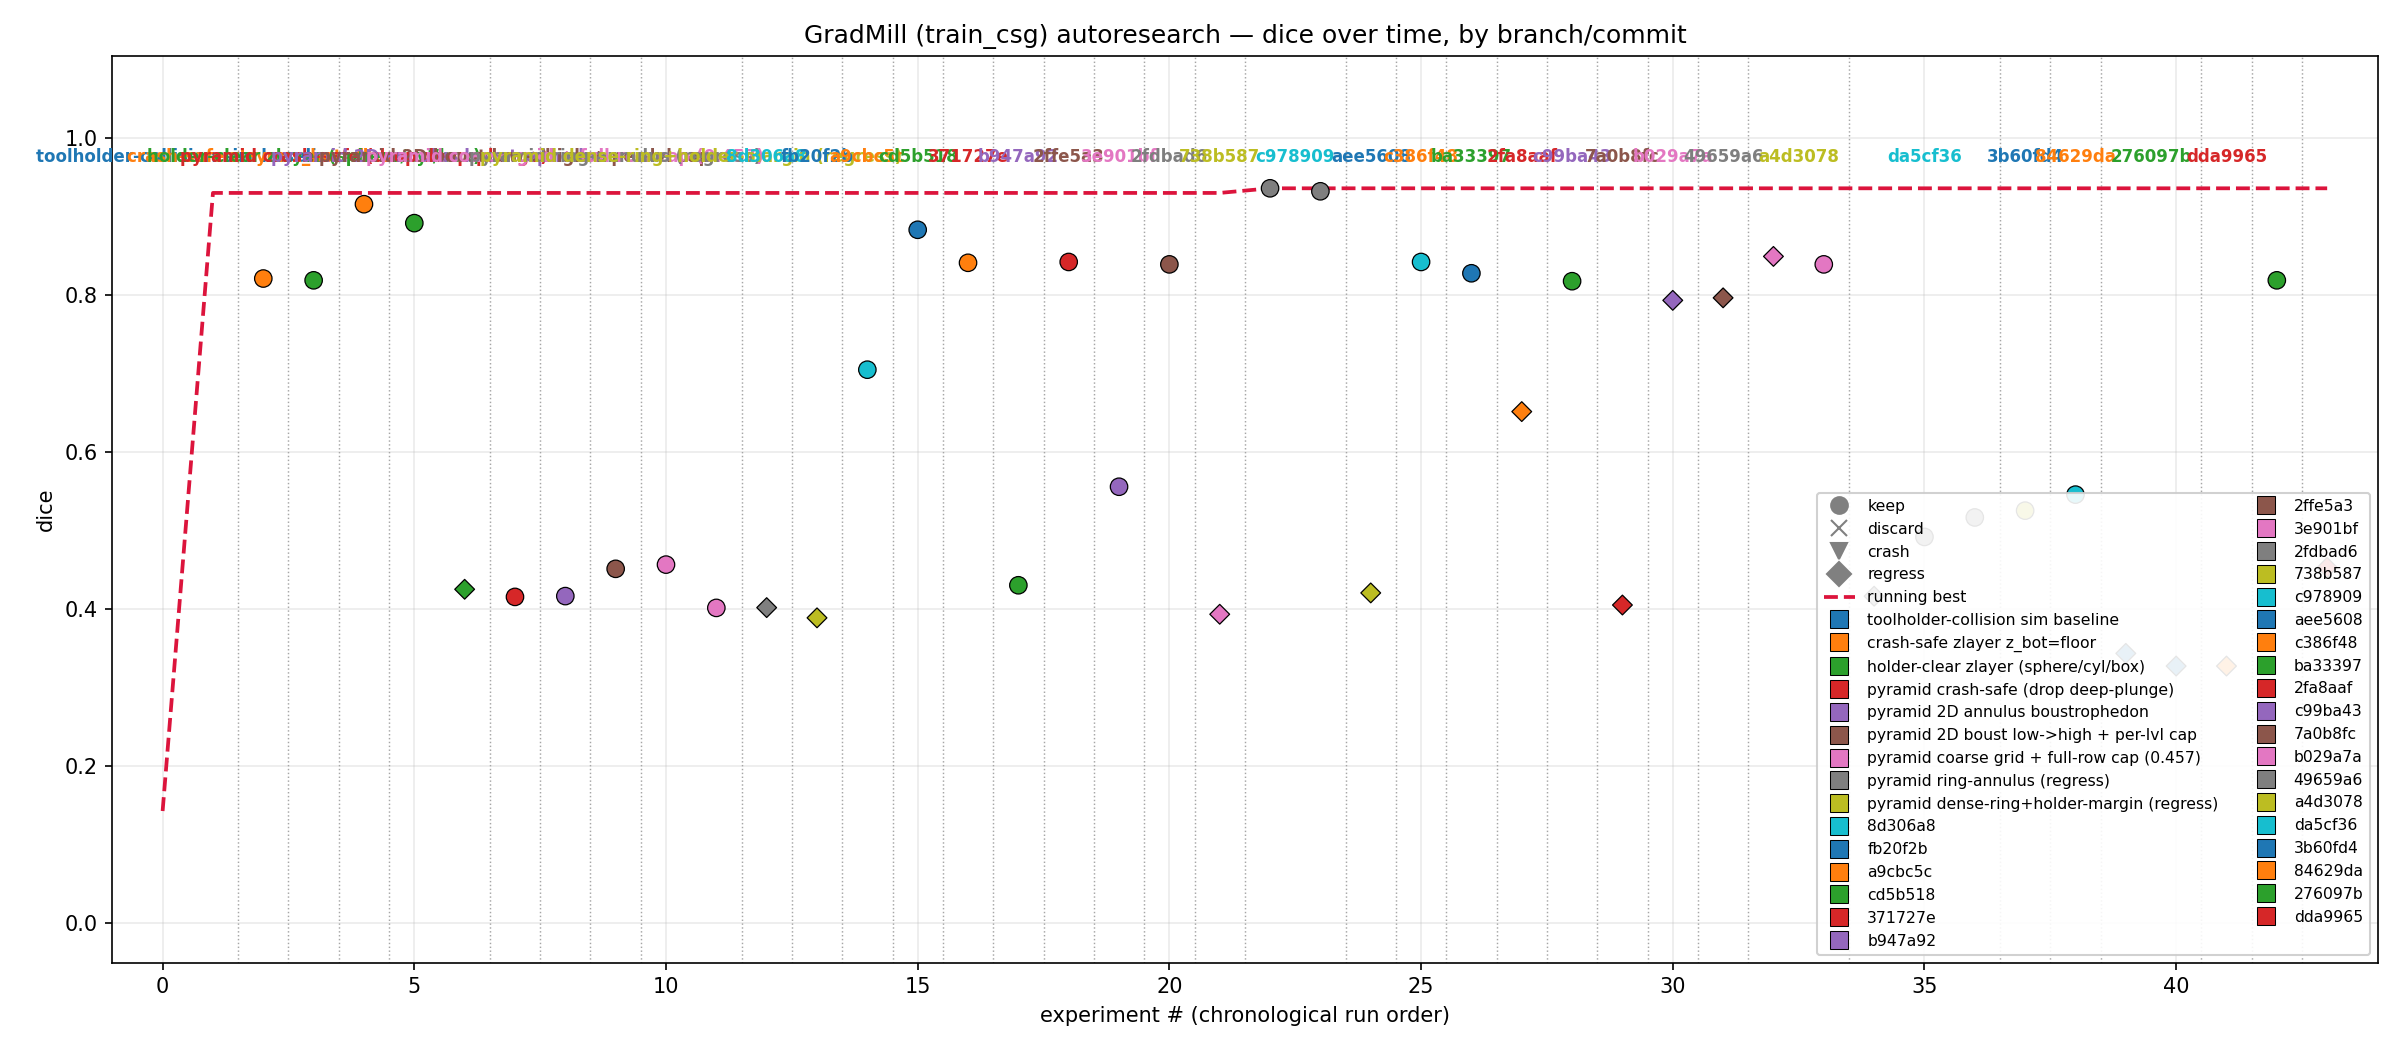
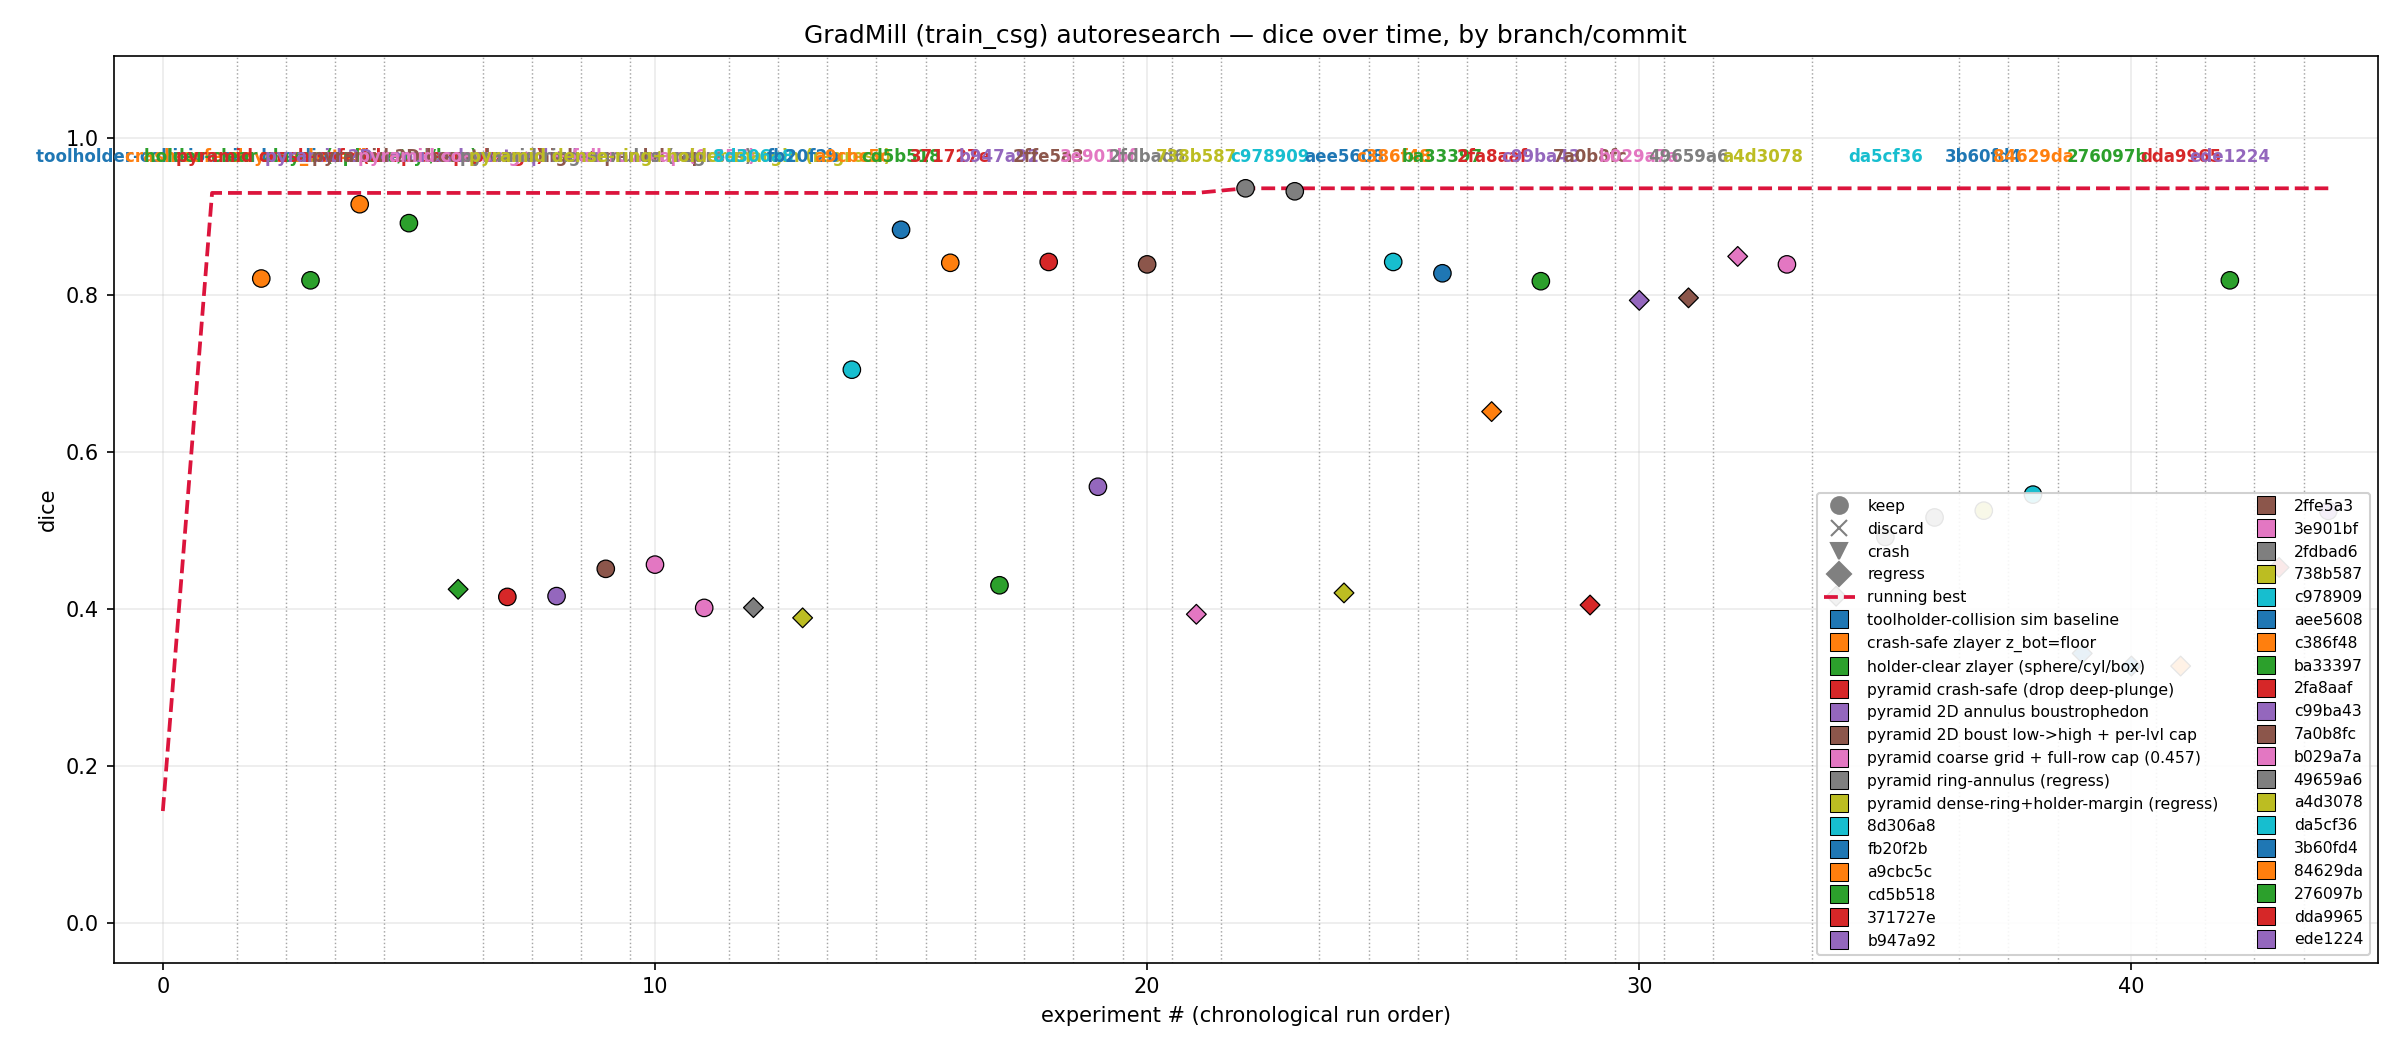
add Best Method synthesis section: shape-aware iter budget (sphere/cyl/box best@iter0, 1in pyramid best@iter199) + best-checkpoint; regen plot

diff --git a/autoresearch/tasks/train_csg/findings.md b/autoresearch/tasks/train_csg/findings.md
@@ -50,6 +50,31 @@ the sphere at 0.75in). The opt-helps pattern is a symptom of a marginal init
 384, pyramid 512) — the optimal trajectory length scales with surface complexity
 / reachability. Comparisons MUST hold max-steps fixed per shape.
 
+## Best method (synthesis)
+
+The best GradMill training method is **shape-aware** (init geometry + iter
+budget + best-checkpoint), all under the crash-safe z-floor/trunc pipeline:
+
+- **Init:** shape-aware zlayer coverage init (above-disk boustrophedon +
+  descending-annulus for the pyramid). The init GEOMETRY is the win for
+  sphere/cyl/box; for the 1in pyramid the init is marginal and opt does the
+  heavy lifting.
+- **Iter budget is shape-dependent (the key method finding):**
+  - sphere / cyl / box / 0.75in-pyramid: **best@iter0** — the init IS the
+    ceiling; opt COLLAPSES it (sphere 0.819→0.55 @200-iter, never recovers). Use
+    FEW iters (1–5) + best-checkpoint saving.
+  - 1in pyramid: **best@iter199** — opt HELPS a lot (0.40→0.526); use 200+
+    iters + best-checkpoint. The 25-iter budget truncated this prematurely
+    (0.457). ~12min for 200 iters (near the 15min practical limit).
+  - 1.5in pyramid: regime-variance (~0.33–0.43), single runs unreliable.
+- **best-checkpoint saving is essential** (prevents opt-collapse from
+  dominating): always eval at the best-train-dice iter, not the final iter.
+- **max-steps is shape-dependent** (sphere 1536, cyl 512, box 384, pyramid 512);
+  tune per shape.
+- **Crash-safe by construction:** `holder_overlap=0`, trunc no-trim (or genuine
+  near-collision trim). The z-floor clamp + holder-clear z_bot keep the path
+  collision-free; the residual loss is purely unreachable waste.
+
 All crash-safe runs: `holder_overlap=0`, trunc trims only genuine near-collisions
 (cyl 19 steps @ 0.15mm; sphere/box holder-clear runs byte-identical pre/post
 trunc — verified `trajectory.untruncated.npy == trajectory.npy`).
